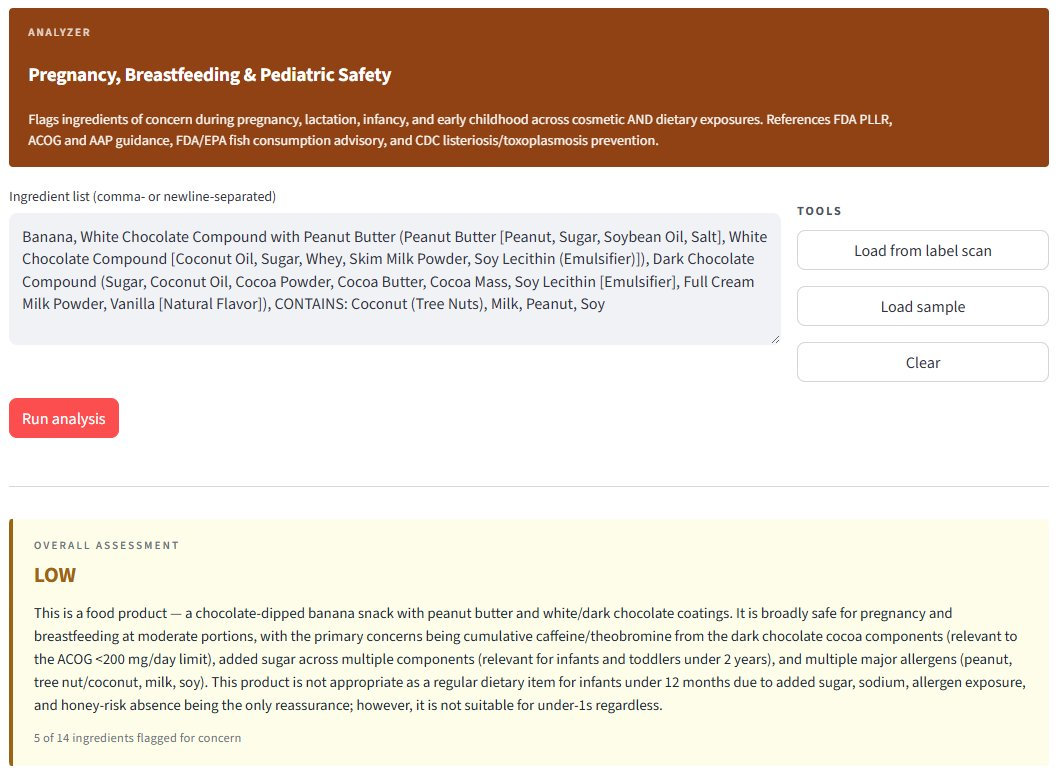
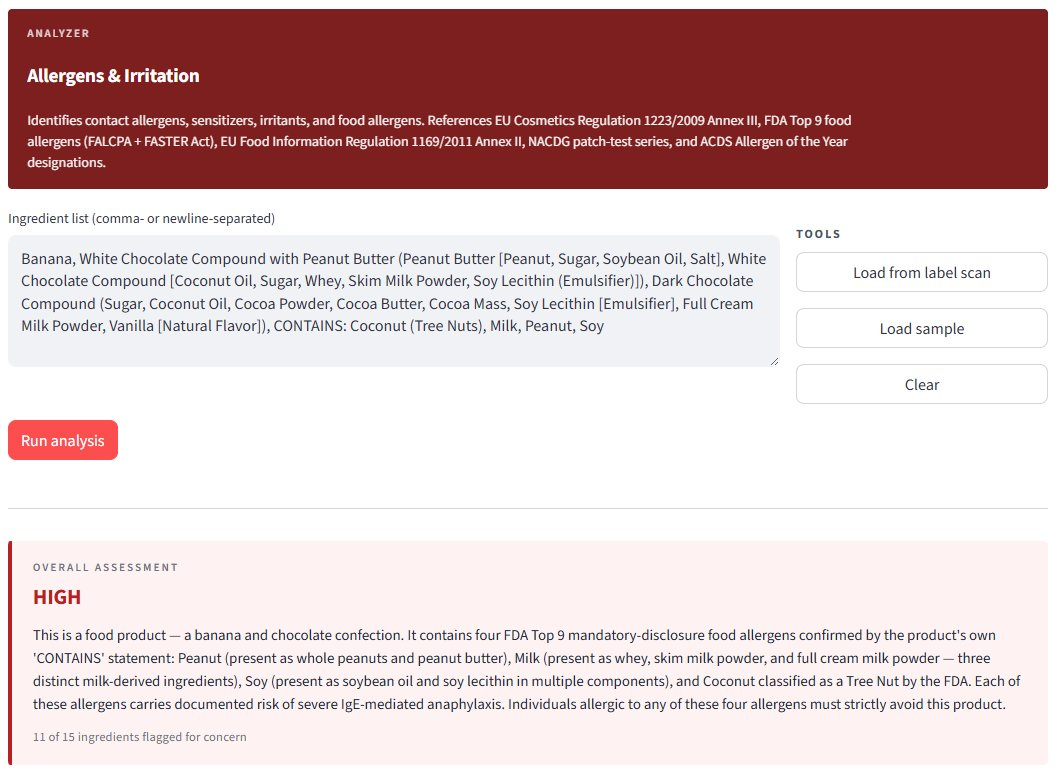
Fix screenshot mappings, merge label scan + extracted view into one image

diff --git a/README.md b/README.md
@@ -44,11 +44,7 @@ All analyzers return the same unified JSON schema, so the frontend renders all f
 The Label Scan tab accepts any photo of a packaging panel. A single Claude vision call returns a normalized, INCI-compliant ingredient list along with metadata (confidence, language, product type). Allergen disclosure statements (`CONTAINS: ...`) are surfaced separately. The extracted text is editable before being passed to any analyzer.
 
 <p align="center">
-  <img src="docs/images/label_scan.png" alt="Label Scan upload" width="900"/>
-</p>
-
-<p align="center">
-  <img src="docs/images/extracted_text.png" alt="Extracted ingredients" width="900"/>
+  <img src="docs/images/label_scan.png" alt="Label Scan and extracted ingredients" width="900"/>
 </p>
 
 ### 2. Run any of the four analyzers